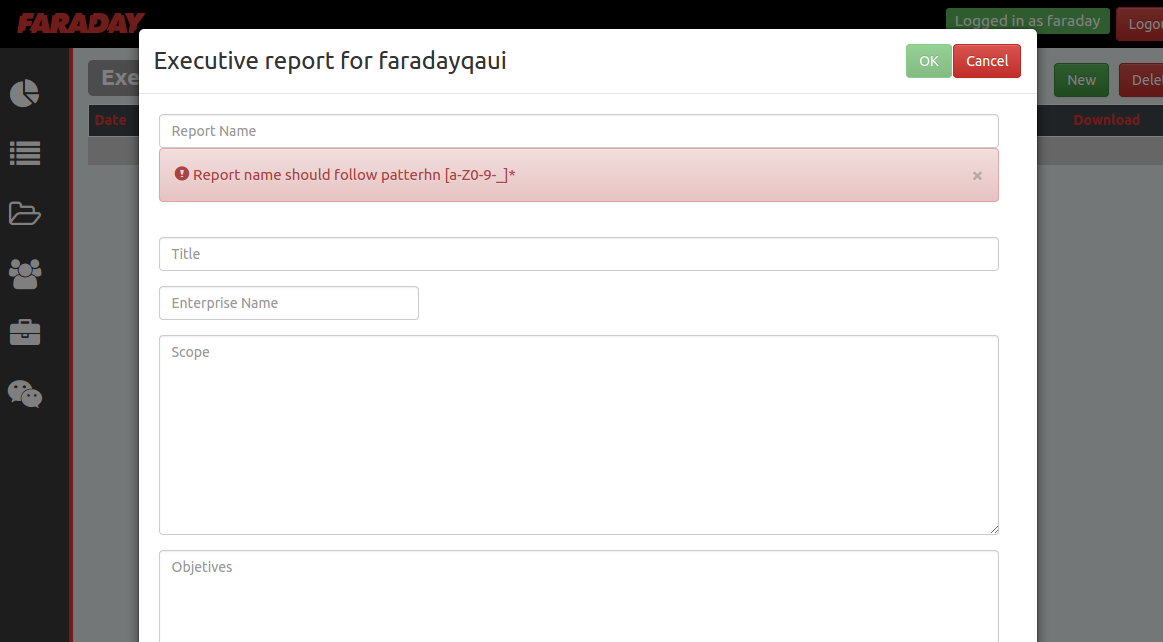
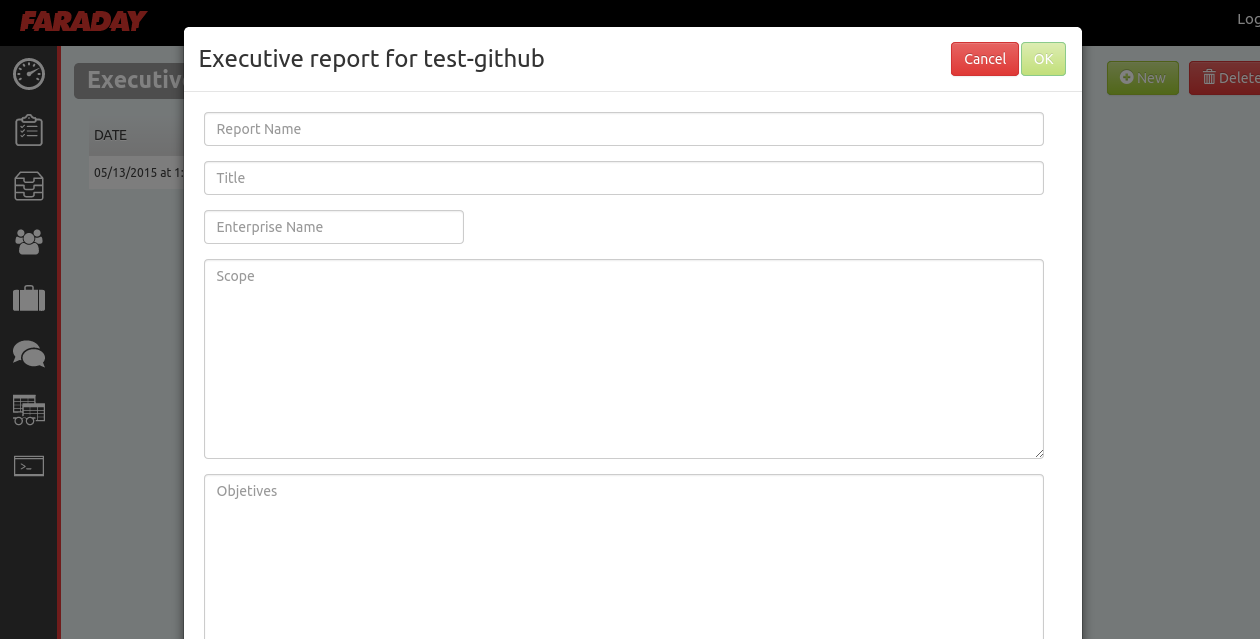
Update screenshots for Exec Report

Changed region(s): [[0.0, 0.0, 1.0, 1.0]]

diff --git a/Executive-Report.md b/Executive-Report.md
@@ -2,11 +2,12 @@
 
 # Intro
 
-The Executive Reports lets you create (as the name implies) reports about the results obtained in each workspace. To make an Executive Report, it takes all the information from the Status Report and automatically creates a word document with all the information for the given project.
+The Executive Reports lets you create (as the name implies) reports using the results obtained in each workspace. 
+When an Executive Report is created, all the data from the Status Report is automatically processed and placed in a Word compatible document that can then be downloaded.
 
 # Requirements
 
-To utilize this feature, during the [Start up Configuration](https://github.com/infobyte/faraday/wiki/Start-up-Configuration-%28Faraday-Server%29) follow the necessary steps when you are configuring the application. 
+To utilize this feature follow the necessary steps on [Start up Configuration](https://github.com/infobyte/faraday/wiki/Start-up-Configuration-%28Faraday-Server%29).
 
 # Managing Executive Reports 
 
@@ -15,11 +16,13 @@ To manage your reports you need to access Faraday's Web Interface and click on t
 
 ![](https://raw.github.com/wiki/infobyte/faraday/images/faraday_report_create.png)
 
+All the reports will be listed, including their info and status.
+
+Once a report has been generated it can't be edited.
+
 # Making a report
 
-The reports can be seen from a list. On the list we create or eliminate documents.
-
-If you want to create a new report, it's necessary to complete the following information in the form:
+To create a new report, navigate to the Executive Report component and click on **New**. A new form will open, asking for the following fields:
 
 * Title
 * Scope
@@ -30,7 +33,7 @@ If you want to create a new report, it's necessary to complete the following inf
 
 ![](https://raw.github.com/wiki/infobyte/faraday/images/faraday_report_new.png)
 
-Faraday processes all the information and spits out a shiny new report that is available for download
+Faraday processes all the information and spits out a shiny new report that is available for download from the same list.
 
 ![](https://raw.github.com/wiki/infobyte/faraday/images/faraday_report_procesing.png)
 
@@ -38,4 +41,4 @@ Faraday processes all the information and spits out a shiny new report that is a
 
 # Eliminating a report
 
-From the executive report window select the document and click on **Delete**.
+From the Executive Report window, select the document and click on **Delete**.
